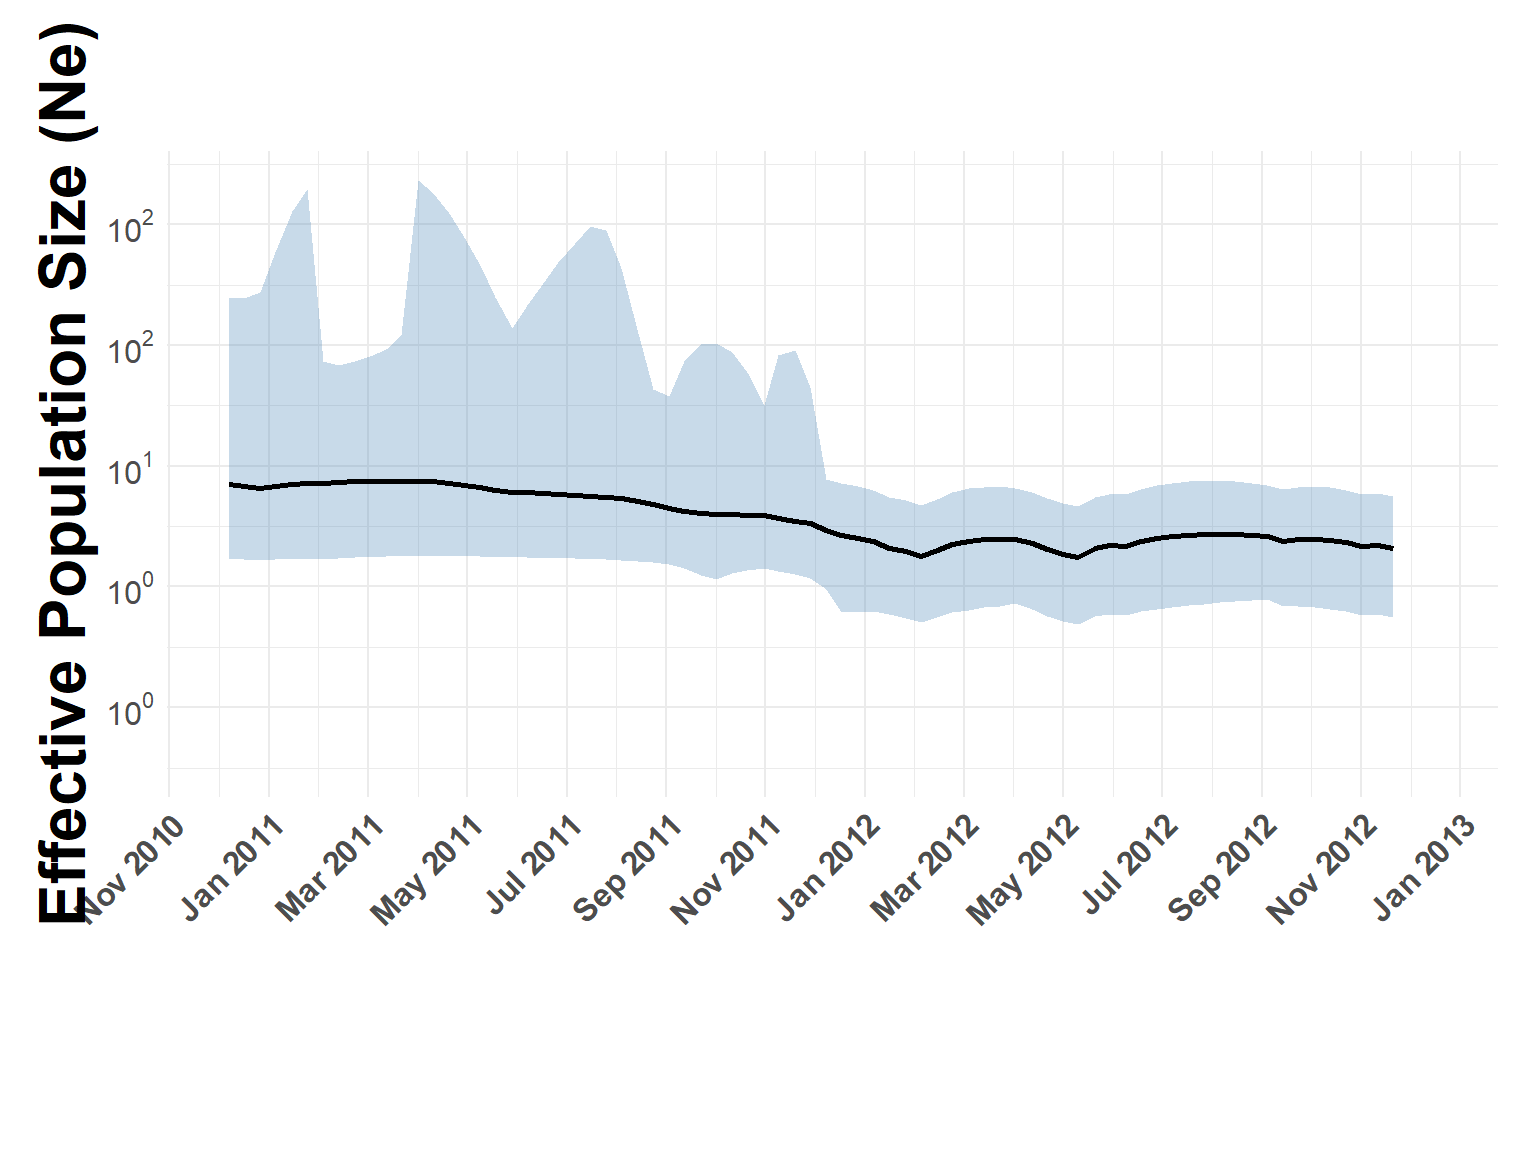
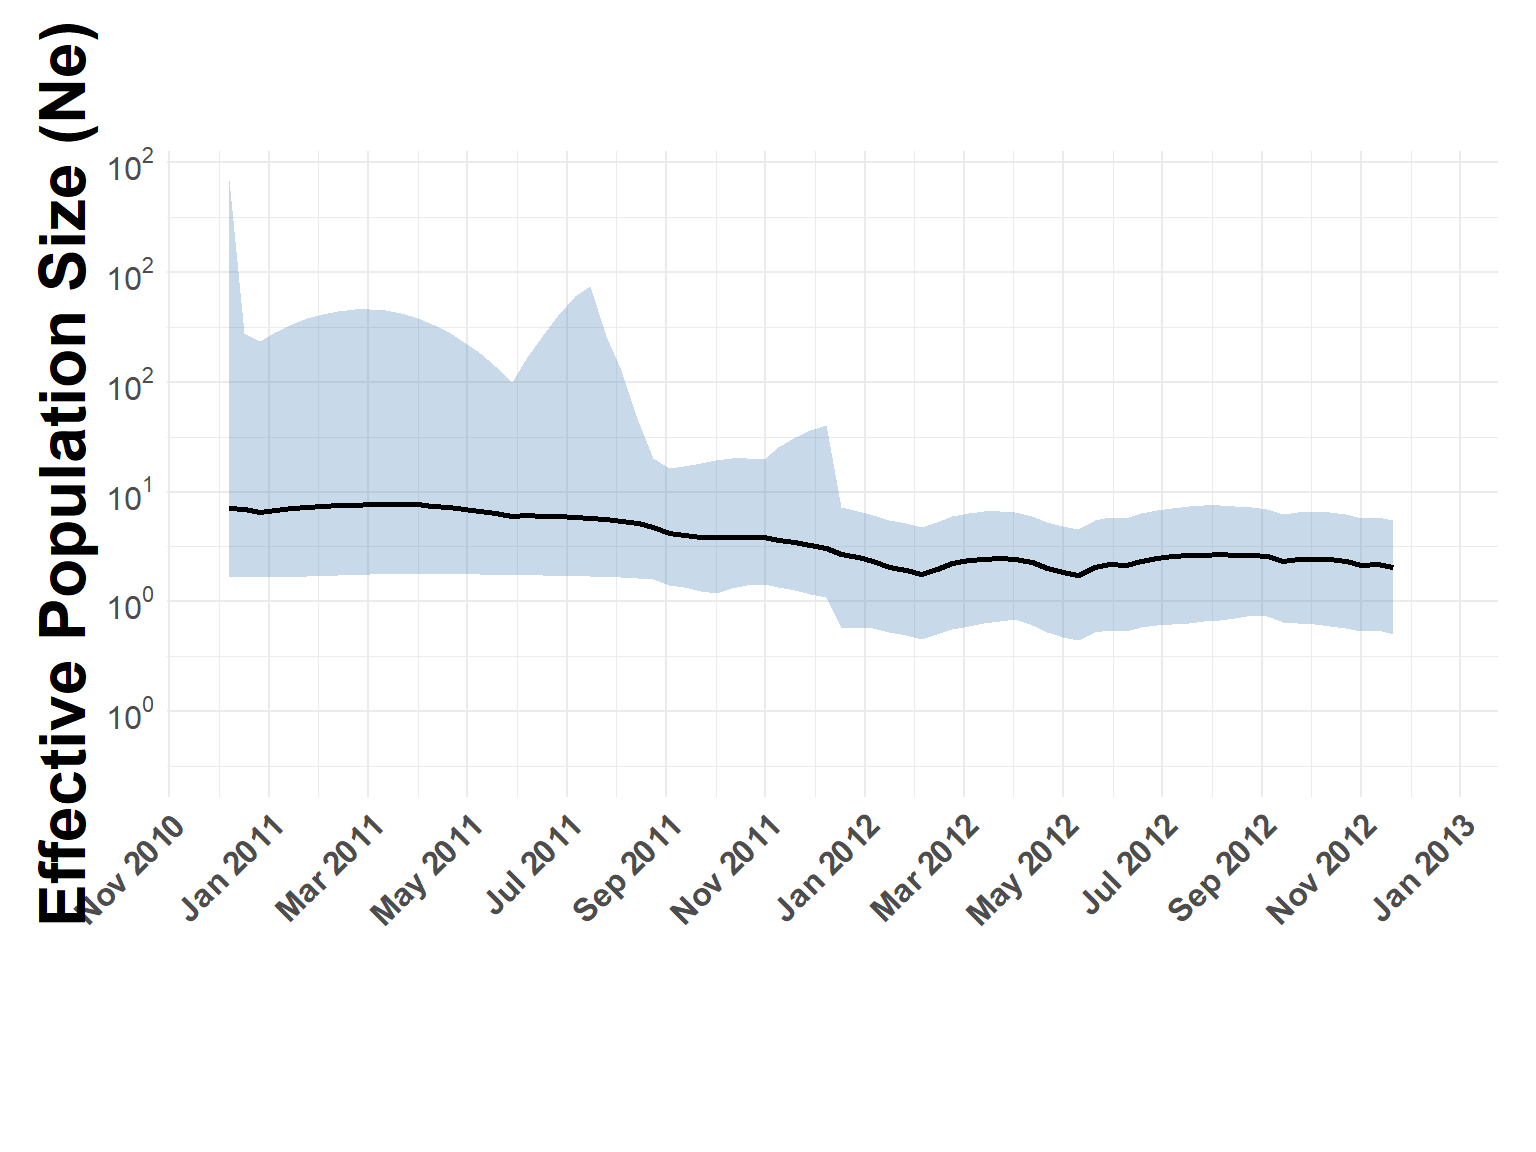
update render

diff --git a/docs/time_tree.html b/docs/time_tree.html
@@ -156,6 +156,10 @@ code span.wa { color: #60a0b0; font-weight: bold; font-style: italic; } /* Warni
  <span class="menu-text">Phylogeny</span></a>
   </li>  
   <li class="nav-item">
+    <a class="nav-link" href="./segments.html">
+ <span class="menu-text">Segments</span></a>
+  </li>  
+  <li class="nav-item">
     <a class="nav-link" href="./networks.html">
  <span class="menu-text">Networks</span></a>
   </li>  
@@ -266,7 +270,7 @@ pre {
 <div class="cell-output-display">
 
 <div style="all:initial" ;="">
-<div id="fogwcvpjyd" style="padding-left:0px;padding-right:0px;padding-top:10px;padding-bottom:10px;overflow-x:auto;overflow-y:auto;width:auto;height:auto;">
+<div id="qjfbvqpnpi" style="padding-left:0px;padding-right:0px;padding-top:10px;padding-bottom:10px;overflow-x:auto;overflow-y:auto;width:auto;height:auto;">
   
   <table class="gt_table" style="-webkit-font-smoothing: antialiased; -moz-osx-font-smoothing: grayscale; font-family: system-ui, 'Segoe UI', Roboto, Helvetica, Arial, sans-serif, 'Apple Color Emoji', 'Segoe UI Emoji', 'Segoe UI Symbol', 'Noto Color Emoji'; display: table; border-collapse: collapse; line-height: normal; margin-left: auto; margin-right: auto; color: #333333; font-size: small; font-weight: normal; font-style: normal; background-color: #FFFFFF; border-top-style: solid; border-top-width: 2px; border-top-color: #5F5F5F; border-right-style: none; border-right-width: 2px; border-right-color: #D3D3D3; border-bottom-style: solid; border-bottom-width: 2px; border-bottom-color: #5F5F5F; border-left-style: none; border-left-width: 2px; border-left-color: #D3D3D3; table-layout: fixed; width: 0px;" data-quarto-disable-processing="false" data-quarto-bootstrap="false" width="0" bgcolor="#FFFFFF">
   <colgroup>
@@ -279,8 +283,7 @@ pre {
   </colgroup>
   <thead style="border-style: none;">
     <tr class="gt_heading" style="border-style: none; background-color: #FFFFFF; text-align: center; border-bottom-color: #FFFFFF; border-left-style: none; border-left-width: 1px; border-left-color: #D3D3D3; border-right-style: none; border-right-width: 1px; border-right-color: #D3D3D3;" bgcolor="#FFFFFF" align="center">
-      <td colspan="6" class="gt_heading gt_title gt_font_normal gt_bottom_border" style="border-style: none; color: #333333; font-size: large; padding-top: 4px; padding-bottom: 4px; padding-left: 5px; padding-right: 5px; background-color: #FFFFFF; text-align: center; border-left-style: none; border-left-width: 1px; border-left-color: #D3D3D3; border-right-style: none; border-right-width: 1px; border-right-color: #D3D3D3; border-bottom-style: solid; border-bottom-width: 2px; border-bottom-color: #5F5F5F; font-weight: normal;" bgcolor="#FFFFFF" align="center"><div data-qmd-base64="U2Vyb3R5cGUgQSBTdGF0cw=="><div class="gt_from_md"><p style="margin: 0; padding: 0; margin-top: 0; margin-bottom: 0;">Serotype A Stats</p>
-</div></div></td>
+      <td colspan="6" class="gt_heading gt_title gt_font_normal gt_bottom_border" style="border-style: none; color: #333333; font-size: large; padding-top: 4px; padding-bottom: 4px; padding-left: 5px; padding-right: 5px; background-color: #FFFFFF; text-align: center; border-left-style: none; border-left-width: 1px; border-left-color: #D3D3D3; border-right-style: none; border-right-width: 1px; border-right-color: #D3D3D3; border-bottom-style: solid; border-bottom-width: 2px; border-bottom-color: #5F5F5F; font-weight: normal;" bgcolor="#FFFFFF" align="center"><span data-qmd-base64="U2Vyb3R5cGUgQSBTdGF0cw=="><span class="gt_from_md">Serotype A Stats</span></span></td>
     </tr>
     
     <tr class="gt_col_headings" style="border-style: none; border-top-style: solid; border-top-width: 2px; border-top-color: #5F5F5F; border-bottom-style: solid; border-bottom-width: 2px; border-bottom-color: #5F5F5F; border-left-style: none; border-left-width: 1px; border-left-color: #D3D3D3; border-right-style: none; border-right-width: 1px; border-right-color: #D3D3D3;">
@@ -402,7 +405,7 @@ Trees were run using several different clock and prior choices, all showed flat-
 <div class="cell-output-display">
 
 <div style="all:initial" ;="">
-<div id="acqwsntora" style="padding-left:0px;padding-right:0px;padding-top:10px;padding-bottom:10px;overflow-x:auto;overflow-y:auto;width:auto;height:auto;">
+<div id="irqcvaztjz" style="padding-left:0px;padding-right:0px;padding-top:10px;padding-bottom:10px;overflow-x:auto;overflow-y:auto;width:auto;height:auto;">
   
   <table class="gt_table" style="-webkit-font-smoothing: antialiased; -moz-osx-font-smoothing: grayscale; font-family: system-ui, 'Segoe UI', Roboto, Helvetica, Arial, sans-serif, 'Apple Color Emoji', 'Segoe UI Emoji', 'Segoe UI Symbol', 'Noto Color Emoji'; display: table; border-collapse: collapse; line-height: normal; margin-left: auto; margin-right: auto; color: #333333; font-size: small; font-weight: normal; font-style: normal; background-color: #FFFFFF; border-top-style: solid; border-top-width: 2px; border-top-color: #5F5F5F; border-right-style: none; border-right-width: 2px; border-right-color: #D3D3D3; border-bottom-style: solid; border-bottom-width: 2px; border-bottom-color: #5F5F5F; border-left-style: none; border-left-width: 2px; border-left-color: #D3D3D3; table-layout: fixed; width: 0px;" data-quarto-disable-processing="false" data-quarto-bootstrap="false" width="0" bgcolor="#FFFFFF">
   <colgroup>
@@ -415,8 +418,7 @@ Trees were run using several different clock and prior choices, all showed flat-
   </colgroup>
   <thead style="border-style: none;">
     <tr class="gt_heading" style="border-style: none; background-color: #FFFFFF; text-align: center; border-bottom-color: #FFFFFF; border-left-style: none; border-left-width: 1px; border-left-color: #D3D3D3; border-right-style: none; border-right-width: 1px; border-right-color: #D3D3D3;" bgcolor="#FFFFFF" align="center">
-      <td colspan="6" class="gt_heading gt_title gt_font_normal gt_bottom_border" style="border-style: none; color: #333333; font-size: large; padding-top: 4px; padding-bottom: 4px; padding-left: 5px; padding-right: 5px; background-color: #FFFFFF; text-align: center; border-left-style: none; border-left-width: 1px; border-left-color: #D3D3D3; border-right-style: none; border-right-width: 1px; border-right-color: #D3D3D3; border-bottom-style: solid; border-bottom-width: 2px; border-bottom-color: #5F5F5F; font-weight: normal;" bgcolor="#FFFFFF" align="center"><div data-qmd-base64="U2Vyb3R5cGUgQXNpYTEgU3RhdHM="><div class="gt_from_md"><p style="margin: 0; padding: 0; margin-top: 0; margin-bottom: 0;">Serotype Asia1 Stats</p>
-</div></div></td>
+      <td colspan="6" class="gt_heading gt_title gt_font_normal gt_bottom_border" style="border-style: none; color: #333333; font-size: large; padding-top: 4px; padding-bottom: 4px; padding-left: 5px; padding-right: 5px; background-color: #FFFFFF; text-align: center; border-left-style: none; border-left-width: 1px; border-left-color: #D3D3D3; border-right-style: none; border-right-width: 1px; border-right-color: #D3D3D3; border-bottom-style: solid; border-bottom-width: 2px; border-bottom-color: #5F5F5F; font-weight: normal;" bgcolor="#FFFFFF" align="center"><span data-qmd-base64="U2Vyb3R5cGUgQXNpYTEgU3RhdHM="><span class="gt_from_md">Serotype Asia1 Stats</span></span></td>
     </tr>
     
     <tr class="gt_col_headings" style="border-style: none; border-top-style: solid; border-top-width: 2px; border-top-color: #5F5F5F; border-bottom-style: solid; border-bottom-width: 2px; border-bottom-color: #5F5F5F; border-left-style: none; border-left-width: 1px; border-left-color: #D3D3D3; border-right-style: none; border-right-width: 1px; border-right-color: #D3D3D3;">
@@ -537,7 +539,7 @@ Flat Ne, like the other serotypes</p>
 <div class="cell-output-display">
 
 <div style="all:initial" ;="">
-<div id="mobiapioeq" style="padding-left:0px;padding-right:0px;padding-top:10px;padding-bottom:10px;overflow-x:auto;overflow-y:auto;width:auto;height:auto;">
+<div id="wvhvsjvyge" style="padding-left:0px;padding-right:0px;padding-top:10px;padding-bottom:10px;overflow-x:auto;overflow-y:auto;width:auto;height:auto;">
   
   <table class="gt_table" style="-webkit-font-smoothing: antialiased; -moz-osx-font-smoothing: grayscale; font-family: system-ui, 'Segoe UI', Roboto, Helvetica, Arial, sans-serif, 'Apple Color Emoji', 'Segoe UI Emoji', 'Segoe UI Symbol', 'Noto Color Emoji'; display: table; border-collapse: collapse; line-height: normal; margin-left: auto; margin-right: auto; color: #333333; font-size: small; font-weight: normal; font-style: normal; background-color: #FFFFFF; border-top-style: solid; border-top-width: 2px; border-top-color: #5F5F5F; border-right-style: none; border-right-width: 2px; border-right-color: #D3D3D3; border-bottom-style: solid; border-bottom-width: 2px; border-bottom-color: #5F5F5F; border-left-style: none; border-left-width: 2px; border-left-color: #D3D3D3; table-layout: fixed; width: 0px;" data-quarto-disable-processing="false" data-quarto-bootstrap="false" width="0" bgcolor="#FFFFFF">
   <colgroup>
@@ -550,8 +552,7 @@ Flat Ne, like the other serotypes</p>
   </colgroup>
   <thead style="border-style: none;">
     <tr class="gt_heading" style="border-style: none; background-color: #FFFFFF; text-align: center; border-bottom-color: #FFFFFF; border-left-style: none; border-left-width: 1px; border-left-color: #D3D3D3; border-right-style: none; border-right-width: 1px; border-right-color: #D3D3D3;" bgcolor="#FFFFFF" align="center">
-      <td colspan="6" class="gt_heading gt_title gt_font_normal gt_bottom_border" style="border-style: none; color: #333333; font-size: large; padding-top: 4px; padding-bottom: 4px; padding-left: 5px; padding-right: 5px; background-color: #FFFFFF; text-align: center; border-left-style: none; border-left-width: 1px; border-left-color: #D3D3D3; border-right-style: none; border-right-width: 1px; border-right-color: #D3D3D3; border-bottom-style: solid; border-bottom-width: 2px; border-bottom-color: #5F5F5F; font-weight: normal;" bgcolor="#FFFFFF" align="center"><div data-qmd-base64="U2Vyb3R5cGUgTyBTdGF0cw=="><div class="gt_from_md"><p style="margin: 0; padding: 0; margin-top: 0; margin-bottom: 0;">Serotype O Stats</p>
-</div></div></td>
+      <td colspan="6" class="gt_heading gt_title gt_font_normal gt_bottom_border" style="border-style: none; color: #333333; font-size: large; padding-top: 4px; padding-bottom: 4px; padding-left: 5px; padding-right: 5px; background-color: #FFFFFF; text-align: center; border-left-style: none; border-left-width: 1px; border-left-color: #D3D3D3; border-right-style: none; border-right-width: 1px; border-right-color: #D3D3D3; border-bottom-style: solid; border-bottom-width: 2px; border-bottom-color: #5F5F5F; font-weight: normal;" bgcolor="#FFFFFF" align="center"><span data-qmd-base64="U2Vyb3R5cGUgTyBTdGF0cw=="><span class="gt_from_md">Serotype O Stats</span></span></td>
     </tr>
     
     <tr class="gt_col_headings" style="border-style: none; border-top-style: solid; border-top-width: 2px; border-top-color: #5F5F5F; border-bottom-style: solid; border-bottom-width: 2px; border-bottom-color: #5F5F5F; border-left-style: none; border-left-width: 1px; border-left-color: #D3D3D3; border-right-style: none; border-right-width: 1px; border-right-color: #D3D3D3;">

diff --git a/docs/index.html b/docs/index.html
@@ -93,6 +93,10 @@ ul.task-list li input[type="checkbox"] {
  <span class="menu-text">Phylogeny</span></a>
   </li>  
   <li class="nav-item">
+    <a class="nav-link" href="./segments.html">
+ <span class="menu-text">Segments</span></a>
+  </li>  
+  <li class="nav-item">
     <a class="nav-link" href="./networks.html">
  <span class="menu-text">Networks</span></a>
   </li>  
@@ -167,7 +171,7 @@ Under Active Development
 </div>
 </div>
 <div class="callout-body-container callout-body">
-<p>The tabs across the top of this webpage can be navigated to view various exploratory analyses examining FMDV co-infection and recombination dynamics in water buffalo. The code, data, and analyses on this site have not been verified or validated and are subject to change.</p>
+<p>The tabs across the top of this webpage can be navigated to view various exploratory analyses examining FMDV co-infection and recombination dynamics in water buffalo.The code, data, and analyses on this site have not been verified or validated and are subject to change.</p>
 </div>
 </div>
 
